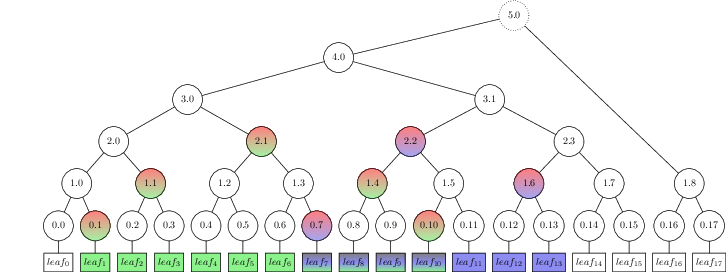
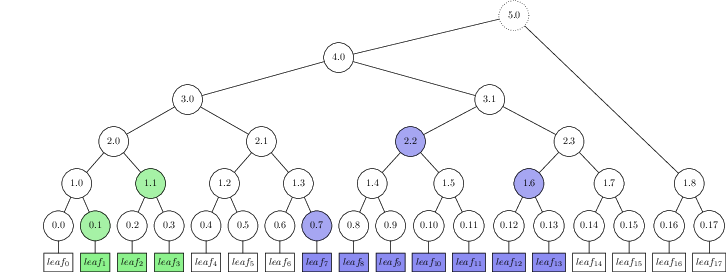
No redness

diff --git a/docs/merkletree/treetex/main.go b/docs/merkletree/treetex/main.go
@@ -123,27 +123,30 @@ func (n nodeInfo) String() string {
 	}
 
 	if n.proof {
-		proofFill := "proof"
 		if n.ephemeral {
-			proofFill = "proof_ephemeral"
-		}
-		if len(n.proofRangeIndices) == 0 {
-			fill = proofFill
+			fill = "proof_ephemeral"
 		} else {
-			attr = append(attr, fmt.Sprintf("top color=%s", proofFill))
-			for i, pi := range n.proofRangeIndices {
-				pos := []string{"bottom", "middle"}[i]
-				attr = append(attr, fmt.Sprintf("%s color=range%d!50", pos, pi))
-			}
+			fill = "proof"
 		}
-	} else /* !proof */ {
+	}
+
+	if n.leaf {
 		if l := len(n.rangeIndices); l == 1 {
 			fill = fmt.Sprintf("target%d!50", n.rangeIndices[0])
 		} else if l > 1 {
 			// Otherwise, we need to be a bit cleverer, and use the shading feature.
 			for i, ri := range n.rangeIndices {
-				pos := []string{"bottom", "middle"}[i]
+				pos := []string{"left", "right", "middle"}[i]
 				attr = append(attr, fmt.Sprintf("%s color=target%d!50", pos, ri))
+			}
+		}
+	} else {
+		if l := len(n.proofRangeIndices); l == 1 {
+			fill = fmt.Sprintf("range%d!50", n.proofRangeIndices[0])
+		} else if l > 1 {
+			for i, pi := range n.proofRangeIndices {
+				pos := []string{"left", "right", "middle"}[i]
+				attr = append(attr, fmt.Sprintf("%s color=range%d!50", pos, pi))
 			}
 		}
 	}
@@ -327,7 +330,6 @@ func modifyRangeNodeInfo() error {
 
 		for _, id := range compact.RangeNodes(l, r) {
 			modifyNodeInfo(id, func(n *nodeInfo) {
-				n.proof = true
 				n.proofRangeIndices = append(n.proofRangeIndices, ri)
 			})
 		}
